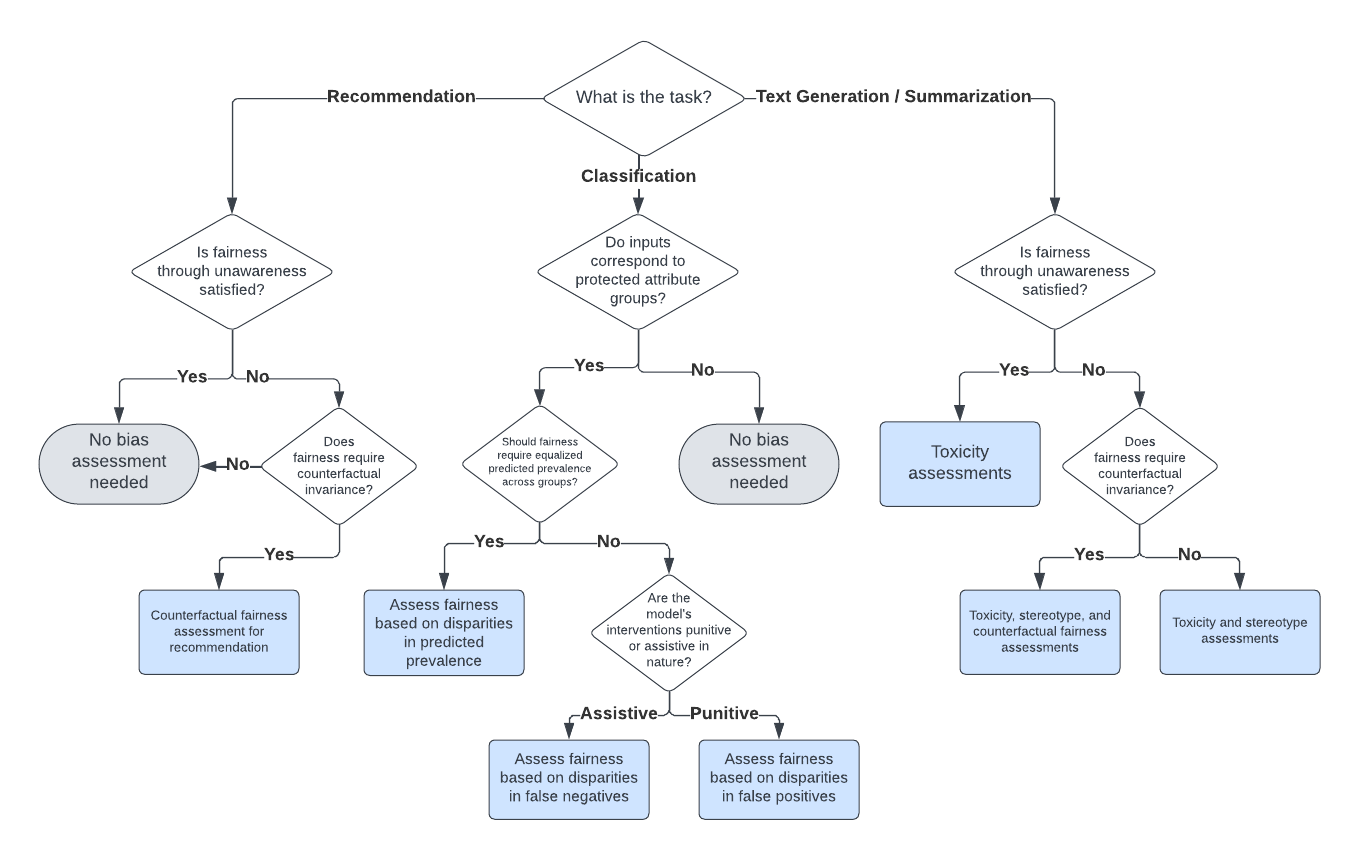
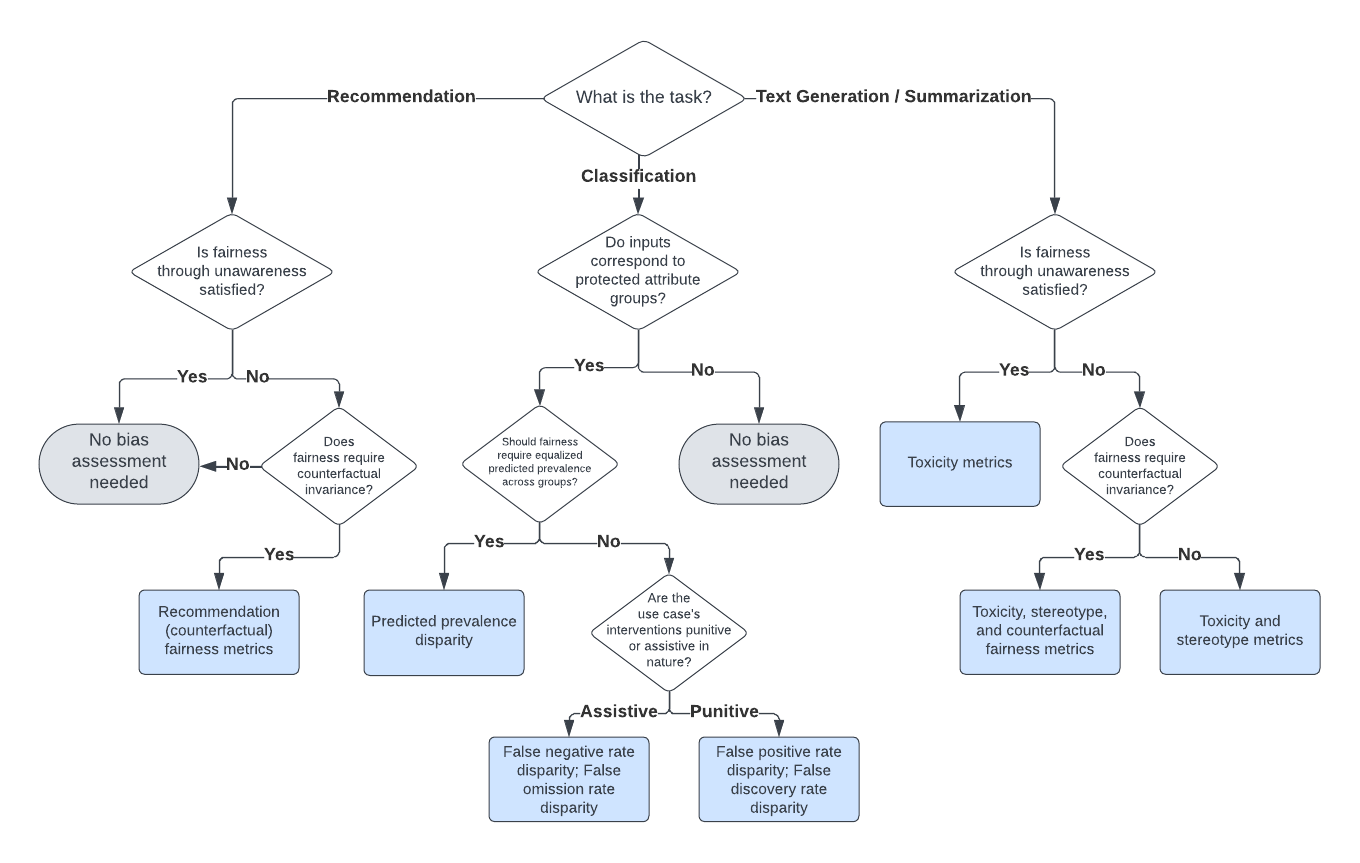
update flowchart and readme

diff --git a/README.md b/README.md
@@ -2,16 +2,23 @@
   <img src="https://raw.githubusercontent.com/cvs-health/langfair/main/assets/images/langfair-logo.png" />
 </p>
 
-# Use-Case Level LLM Bias and Fairness Assessments
+# LangFair: Use-Case Level LLM Bias and Fairness Assessments
 
-LangFair is a Python library for conducting bias and fairness assessments of large language model (LLM) use cases. This repository includes a framework for [choosing bias and fairness metrics](https://github.com/cvs-health/langfair/tree/main#choosing-bias-and-fairness-metrics-for-an-llm-use-case), [demo notebooks](https://github.com/cvs-health/langfair/tree/main/examples), and a LLM bias and fairness [technical playbook](https://arxiv.org/abs/2407.10853) containing a thorough discussion of LLM bias and fairness risks, evaluation metrics, and best practices. Please refer to our [documentation site](https://cvs-health.github.io/langfair/) for more details on how to use LangFair.
+[![Build Status](https://github.com/cvs-health/langfair/actions/workflows/ci.yml/badge.svg)](https://github.com/cvs-health/langfair/actions)
+[![codecov](https://codecov.io/gh/cvs-health/langfair/branch/main/graph/badge.svg)](https://codecov.io/gh/cvs-health/langfair)
+![License](https://img.shields.io/badge/license-MIT-blue.svg)
+![PyPI version](https://badge.fury.io/py/langfair.svg)
 
-#### Why LangFair?
+LangFair is a powerful Python library designed for conducting bias and fairness assessments of large language model (LLM) use cases. This repository includes a comprehensive framework for [choosing bias and fairness metrics](https://github.com/cvs-health/langfair/tree/main#choosing-bias-and-fairness-metrics-for-an-llm-use-case), along with [demo notebooks](https://github.com/cvs-health/langfair/tree/main/examples) and a [technical playbook](https://arxiv.org/abs/2407.10853) that discusses LLM bias and fairness risks, evaluation metrics, and best practices. 
+
+Explore our [documentation site](https://cvs-health.github.io/langfair/) for detailed instructions on using LangFair.
+
+## 🚀 Why Choose LangFair?
 Static benchmark assessments, which are typically assumed to be sufficiently representative, often fall short in capturing the risks associated with all possible use cases of LLMs. These models are increasingly used in various applications, including recommendation systems, classification, text generation, and summarization. However, evaluating these models without considering use-case-specific prompts can lead to misleading assessments of their performance, especially regarding bias and fairness risks.
  
 LangFair addresses this gap by adopting a Bring Your Own Prompts (BYOP) approach, allowing users to tailor bias and fairness evaluations to their specific use cases. This ensures that the metrics computed reflect the true performance of the LLMs in real-world scenarios, where prompt-specific risks are critical. Additionally, LangFair's focus is on output-based metrics that are practical for governance audits and real-world testing, without needing access to internal model states.
 
-#### Supported Bias and Fairness Metrics
+## 📊 Supported Bias and Fairness Metrics
 Bias and fairness metrics offered by LangFair are grouped into several categories. The full suite of metrics is displayed below.
 
 ##### Toxicity Metrics
@@ -46,7 +53,7 @@ Bias and fairness metrics offered by LangFair are grouped into several categorie
 
 
 
-## Quickstart 
+## ⚡ Quickstart Guide
 ### (Optional) Create a virtual environment for using LangFair
 We recommend creating a new virtual environment using venv before installing LangFair. To do so, please follow instructions [here](https://docs.python.org/3/library/venv.html).
 
@@ -57,12 +64,15 @@ The latest version can be installed from PyPI:
 pip install langfair
 ```
 
-### Usage
+### Usage Example
 Below is a sample of code illustrating how to use LangFair's `AutoEval` class for text generation and summarization use cases. The below example assumes the user has already defined parameters `DEPLOYMENT_NAME`, `API_KEY`, `API_BASE`, `API_TYPE`, `API_VERSION`, and a list of prompts from their use case `prompts`.
 
 Create `langchain` LLM object.
 ```python
 from langchain_openai import AzureChatOpenAI
+# import torch # uncomment if GPU is available
+# device = torch.device("cuda") # uncomment if GPU is available
+
 llm = AzureChatOpenAI(
     deployment_name=DEPLOYMENT_NAME,
     openai_api_key=API_KEY,
@@ -79,9 +89,8 @@ from langfair.auto import AutoEval
 auto_object = AutoEval(
     prompts=prompts, 
     langchain_llm=llm
-    # toxicity_device=device # use if GPU is available
+    # toxicity_device=device # uncomment if GPU is available
 )
-
 results = await auto_object.evaluate()
 ```
 
@@ -100,30 +109,31 @@ auto_object.print_results()
   <img src="https://raw.githubusercontent.com/cvs-health/langfair/main/assets/images/autoeval_output.png" />
 </p>
 
-## Example Notebooks
-See **[Demo Notebooks](https://github.com/cvs-health/langfair/tree/main/examples)** for notebooks illustrating how to use LangFair for various bias and fairness evaluation metrics.
+## 📚 Example Notebooks
+Explore the following demo notebooks to see how to use LangFair for various bias and fairness evaluation metrics:
 
-## Choosing Bias and Fairness Metrics for an LLM Use Case
-In general, bias and fairness assessments of LLM use cases do not require satisfying all possible evaluation metrics. Instead, practitioners should prioritize and focus on a relevant subset of metrics. To demystify metric choice for these assessments, a decision framework for selecting the appropriate evaluation metrics is depicted in the diagram below. For more details on this decision framework, we refer users to our [technical playbook](https://arxiv.org/abs/2407.10853).
+- [Toxicity Evaluation](https://github.com/cvs-health/langfair/blob/main/examples/text_generation/toxicity_metrics_demo.ipynb): A notebook demonstrating toxicity metrics.
+- [Counterfactual Fairness Evaluation](https://github.com/cvs-health/langfair/blob/main/examples/text_generation/counterfactual_metrics_demo.ipynb): A notebook illustrating how to generate counterfactual datasets and compute counterfactual fairness metrics.
+- [Stereotype Evaluation](https://github.com/cvs-health/langfair/blob/main/examples/text_generation/stereotype_metrics_analysis.ipynb): A notebook demonstrating stereotype metrics.
+- [AutoEval for Text Generation / Summarization (Toxicity, Stereotypes, Counterfactual)](https://github.com/cvs-health/langfair/blob/main/examples/text_generation/auto_eval_demo.ipynb): A notebook illustrating how to use LangFair's `AutoEval` class for a comprehensive fairness assessment of text generation / summarization use cases. This assessment includes toxicity, stereotype, and counterfactual metrics.
+- [Classification Fairness Evaluation](https://github.com/cvs-health/langfair/blob/main/examples/classification/classification_metrics_demo.ipynb): A notebook demonstrating classification fairness metrics.
+- [Recommendation Fairness Evaluation](https://github.com/cvs-health/langfair/blob/main/examples/recommendation/recommendation_metrics_demo.ipynb): A notebook demonstrating recommendation fairness metrics.
 
-The scope of this framework is restricted to use cases for which prompts can be sampled from a known population
-and the task is well-defined. Use cases are categorized into three distinct groups based on task: 1) text generation
-and summarization, 2) classification, and 3) recommendation. Within each category, metrics to assess pertinent bias and fairness risks are identified based on characteristics of the use case. The specifics of this mapping are elaborated upon below.
 
-When considering text generation and summarization, an important factor in determining relevant bias and fairness metrics is whether the use case upholds fairness through unawareness (FTU). This means that all inputs provided to the model do not include any mentions of protected attribute words. If FTU cannot be achieved, it is recommended that practitioners include counterfactual fairness and stereotype metrics in their assessments. Additionally, it is recommended that all text generation and summarization use cases undergo toxicity evaluation, regardless of whether or not FTU is achieved. For illustrations of how to calculate these metrics with LangFair, refer to the [toxicity, stereotype, and counterfactual demo notebooks](https://github.com/cvs-health/langfair/tree/main/examples/evaluations/text_generation) or the [AutoEval demo notebook](https://github.com/cvs-health/langfair/tree/main/examples/evaluations/text_generation/auto_eval_demo.ipynb) for a more automated implementation.
+## 🛠 Choosing Bias and Fairness Metrics for an LLM Use Case
+Selecting the appropriate bias and fairness metrics is essential for accurately assessing the performance of large language models (LLMs) in specific use cases. Instead of attempting to compute all possible metrics, practitioners should focus on a relevant subset that aligns with their specific goals and the context of their application.
 
-To determine suitable bias and fairness metrics for text classification use cases, a modified version of the *Aequitas* decision framework proposed by [Saleiro et al., 2018](https://arxiv.org/abs/1811.05577) is adopted. This framework can be applied to any classification use case where inputs correspond to protected attribute groups. In such cases, the following approach is recommended: if fairness necessitates that model predictions exhibit approximately equal predicted prevalence across different groups, representation fairness metrics should be used; Otherwise, error-based fairness metrics should be used. Among error-based metrics, practitioners should focus on disparities in false negatives (measured by false negative rate disparity and false omission rate disparity) for assistive use cases (where interventions help individuals). Conversely, for punitive use cases (where interventions can harm individuals), practitioners should focus on disparities in false positives (measured by false positive rate disparity and false discovery rate disparity). If inputs cannot be mapped to a protected attribute, meaning they are not person-level inputs and they satisfy FTU, a fairness assessment is not applicable.  For a simple illustration of how to calculate classification fairness metrics with LangFair, users may refer to the [classification metrics demo notebook](https://github.com/cvs-health/langfair/tree/main/examples/evaluations/classification/classification_metrics_demo.ipynb).
-
-Lastly, for recommendation use cases, counterfactual unfairness is a risk if FTU cannot be satisfied, as shown by [Zhang et al., 2023](https://dl.acm.org/doi/10.1145/3604915.3608860). For these scenarios, it is recommended practitioners assess counterfactual fairness in recommendations using the recommendation fairness metrics proposed by [Zhang et al., 2023](https://dl.acm.org/doi/10.1145/3604915.3608860). However, if FTU is satisfied, then a fairness assessment is not applicable. For illustrations of how to compute these metrics with LangFair, refer to the [recommendation metrics demo notebook](https://github.com/cvs-health/langfair/tree/main/examples/evaluations/recommendation/recommendation_metrics_demo.ipynb).
-
+Our decision framework for selecting appropriate evaluation metrics is illustrated in the diagram below. For more details, refer to our [technical playbook](https://arxiv.org/abs/2407.10853).
 
 <p align="center">
   <img src="https://raw.githubusercontent.com/cvs-health/langfair/main/assets/images/use_case_framework.PNG" />
 </p>
 
+**Note:** Fairness through unawareness means none of the prompts for an LLM use case include any mention of protected attribute words.
 
-## Associated Research
-A technical description of LangFair's evaluation metrics and a practitioner's guide for selecting evaluation metrics is contained in **[this paper](https://arxiv.org/abs/2407.10853)**. Below is the bibtex entry for this paper:
+
+## 📖 Associated Research
+A technical description of LangFair's evaluation metrics and a practitioner's guide for selecting evaluation metrics is contained in **[this paper](https://arxiv.org/abs/2407.10853)**. If you use our framework for selecting evaluation metrics, we would appreciate citations to the following paper:
 
 ```bibtex
 @misc{bouchard2024actionableframeworkassessingbias,
@@ -137,10 +147,10 @@ A technical description of LangFair's evaluation metrics and a practitioner's gu
 }
 ```
 
-## Code Documentation
+## 📄 Code Documentation
 Please refer to our [documentation site](https://cvs-health.github.io/langfair/) for more details on how to use LangFair.
 
-## Development Team
+## 🤝 Development Team
 The open-source version of LangFair is the culmination of extensive work carried out by a dedicated team of developers. While the internal commit history will not be made public, we believe it's essential to acknowledge the significant contributions of our development team who were instrumental in bringing this project to fruition:
 
 - [Dylan Bouchard](https://github.com/dylanbouchard)
@@ -149,5 +159,5 @@ The open-source version of LangFair is the culmination of extensive work carried
 - [Viren Bajaj](https://github.com/virenbajaj)
 - [Zeya Ahmad](https://github.com/zeya30)
 
-## Contributing
+## 🤗 Contributing
 Contributions are welcome. Please refer [here](https://github.com/cvs-health/langfair/tree/main/CONTRIBUTING.md) for instructions on how to contribute to LangFair.
